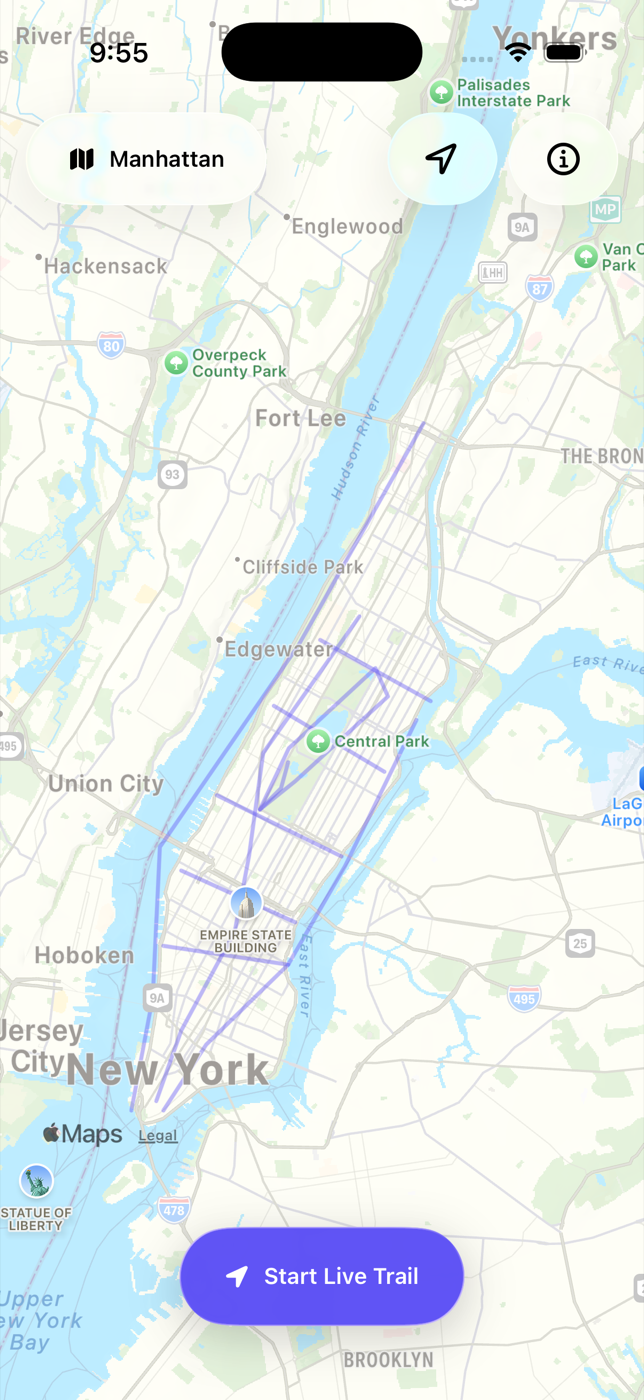
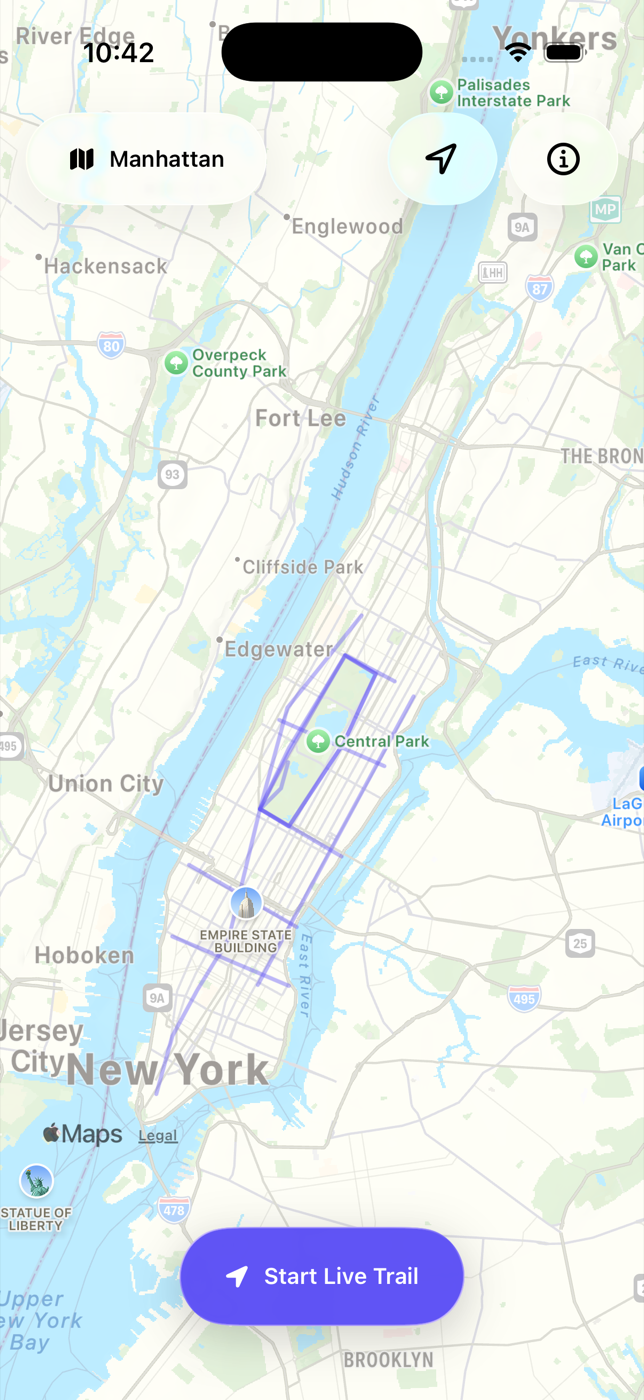
docs: improve public screenshots and install guide

diff --git a/WalkItAll/App/AppModel.swift b/WalkItAll/App/AppModel.swift
@@ -597,11 +597,13 @@ final class AppModel {
                 sourceName: "Apple Watch",
                 activityKind: .cycling,
                 routeParts: [[
-                    GeoCoordinate(latitude: 40.7040, longitude: -74.0180),
-                    GeoCoordinate(latitude: 40.7280, longitude: -74.0120),
-                    GeoCoordinate(latitude: 40.7600, longitude: -74.0100),
-                    GeoCoordinate(latitude: 40.8030, longitude: -73.9710),
-                    GeoCoordinate(latitude: 40.8500, longitude: -73.9360),
+                    GeoCoordinate(latitude: 40.7681, longitude: -73.9819),
+                    GeoCoordinate(latitude: 40.7798, longitude: -73.9740),
+                    GeoCoordinate(latitude: 40.8007, longitude: -73.9580),
+                    GeoCoordinate(latitude: 40.7968, longitude: -73.9494),
+                    GeoCoordinate(latitude: 40.7820, longitude: -73.9585),
+                    GeoCoordinate(latitude: 40.7644, longitude: -73.9738),
+                    GeoCoordinate(latitude: 40.7681, longitude: -73.9819),
                 ]]
             ),
             WorkoutRouteRecord(
@@ -611,11 +613,12 @@ final class AppModel {
                 sourceName: "Apple Watch",
                 activityKind: .running,
                 routeParts: [[
-                    GeoCoordinate(latitude: 40.7040, longitude: -74.0090),
-                    GeoCoordinate(latitude: 40.7180, longitude: -73.9970),
-                    GeoCoordinate(latitude: 40.7350, longitude: -73.9740),
-                    GeoCoordinate(latitude: 40.7560, longitude: -73.9580),
-                    GeoCoordinate(latitude: 40.7870, longitude: -73.9380),
+                    GeoCoordinate(latitude: 40.7307, longitude: -73.9825),
+                    GeoCoordinate(latitude: 40.7415, longitude: -73.9749),
+                    GeoCoordinate(latitude: 40.7539, longitude: -73.9661),
+                    GeoCoordinate(latitude: 40.7675, longitude: -73.9566),
+                    GeoCoordinate(latitude: 40.7804, longitude: -73.9474),
+                    GeoCoordinate(latitude: 40.7920, longitude: -73.9388),
                 ]]
             ),
             WorkoutRouteRecord(
@@ -624,12 +627,14 @@ final class AppModel {
                 end: start.addingTimeInterval(-255_600),
                 sourceName: "Apple Watch",
                 routeParts: [[
-                    GeoCoordinate(latitude: 40.7060, longitude: -74.0110),
-                    GeoCoordinate(latitude: 40.7210, longitude: -74.0040),
-                    GeoCoordinate(latitude: 40.7420, longitude: -73.9890),
-                    GeoCoordinate(latitude: 40.7580, longitude: -73.9850),
-                    GeoCoordinate(latitude: 40.7800, longitude: -73.9810),
-                    GeoCoordinate(latitude: 40.8090, longitude: -73.9540),
+                    GeoCoordinate(latitude: 40.7075, longitude: -74.0110),
+                    GeoCoordinate(latitude: 40.7198, longitude: -74.0065),
+                    GeoCoordinate(latitude: 40.7296, longitude: -73.9995),
+                    GeoCoordinate(latitude: 40.7405, longitude: -73.9907),
+                    GeoCoordinate(latitude: 40.7527, longitude: -73.9870),
+                    GeoCoordinate(latitude: 40.7681, longitude: -73.9819),
+                    GeoCoordinate(latitude: 40.7896, longitude: -73.9742),
+                    GeoCoordinate(latitude: 40.8092, longitude: -73.9534),
                 ]]
             ),
             WorkoutRouteRecord(
@@ -639,12 +644,13 @@ final class AppModel {
                 sourceName: "iPhone",
                 activityKind: .hiking,
                 routeParts: [[
-                    GeoCoordinate(latitude: 40.7680, longitude: -73.9819),
+                    GeoCoordinate(latitude: 40.7681, longitude: -73.9819),
                     GeoCoordinate(latitude: 40.7810, longitude: -73.9738),
-                    GeoCoordinate(latitude: 40.7980, longitude: -73.9495),
-                    GeoCoordinate(latitude: 40.7920, longitude: -73.9460),
-                    GeoCoordinate(latitude: 40.7740, longitude: -73.9720),
-                    GeoCoordinate(latitude: 40.7680, longitude: -73.9819),
+                    GeoCoordinate(latitude: 40.8007, longitude: -73.9580),
+                    GeoCoordinate(latitude: 40.7968, longitude: -73.9494),
+                    GeoCoordinate(latitude: 40.7820, longitude: -73.9585),
+                    GeoCoordinate(latitude: 40.7644, longitude: -73.9738),
+                    GeoCoordinate(latitude: 40.7681, longitude: -73.9819),
                 ]]
             ),
             WorkoutRouteRecord(
@@ -653,8 +659,8 @@ final class AppModel {
                 end: start.addingTimeInterval(-430_200),
                 sourceName: "Apple Watch",
                 routeParts: [[
-                    GeoCoordinate(latitude: 40.7390, longitude: -74.0090),
-                    GeoCoordinate(latitude: 40.7350, longitude: -73.9740),
+                    GeoCoordinate(latitude: 40.7410, longitude: -74.0065),
+                    GeoCoordinate(latitude: 40.7305, longitude: -73.9738),
                 ]]
             ),
             WorkoutRouteRecord(
@@ -663,8 +669,8 @@ final class AppModel {
                 end: start.addingTimeInterval(-516_600),
                 sourceName: "Apple Watch",
                 routeParts: [[
-                    GeoCoordinate(latitude: 40.7550, longitude: -74.0040),
-                    GeoCoordinate(latitude: 40.7440, longitude: -73.9720),
+                    GeoCoordinate(latitude: 40.7562, longitude: -74.0018),
+                    GeoCoordinate(latitude: 40.7430, longitude: -73.9716),
                 ]]
             ),
             WorkoutRouteRecord(
@@ -673,7 +679,7 @@ final class AppModel {
                 end: start.addingTimeInterval(-603_000),
                 sourceName: "Apple Watch",
                 routeParts: [[
-                    GeoCoordinate(latitude: 40.7710, longitude: -73.9940),
+                    GeoCoordinate(latitude: 40.7681, longitude: -73.9819),
                     GeoCoordinate(latitude: 40.7580, longitude: -73.9590),
                 ]]
             ),
@@ -683,8 +689,8 @@ final class AppModel {
                 end: start.addingTimeInterval(-689_400),
                 sourceName: "Apple Watch",
                 routeParts: [[
-                    GeoCoordinate(latitude: 40.7900, longitude: -73.9780),
-                    GeoCoordinate(latitude: 40.7760, longitude: -73.9470),
+                    GeoCoordinate(latitude: 40.7870, longitude: -73.9765),
+                    GeoCoordinate(latitude: 40.7772, longitude: -73.9470),
                 ]]
             ),
             WorkoutRouteRecord(
@@ -693,8 +699,8 @@ final class AppModel {
                 end: start.addingTimeInterval(-775_800),
                 sourceName: "Apple Watch",
                 routeParts: [[
-                    GeoCoordinate(latitude: 40.8040, longitude: -73.9650),
-                    GeoCoordinate(latitude: 40.7910, longitude: -73.9340),
+                    GeoCoordinate(latitude: 40.8008, longitude: -73.9580),
+                    GeoCoordinate(latitude: 40.7952, longitude: -73.9441),
                 ]]
             ),
         ]

diff --git a/README.md b/README.md
@@ -65,6 +65,37 @@ Recent workouts are safely rechecked because Apple Health may deliver or replace
 
 Walk It All is a personal MVP, not currently distributed through the App Store or TestFlight. The repository is public so the product, privacy model, and implementation can be reviewed and shared. Installing it currently requires building it with Xcode and signing it with your own Apple development team.
 
+## Install on your own iPhone with a coding agent
+
+Because Walk It All is unpublished, this GitHub repository is source code—not a one-tap installation link. Codex or Claude Code can automate most of a personal installation on a Mac, but Apple still requires the iPhone owner to sign in to Xcode with their own Apple Account, trust the Mac, enable Developer Mode, and approve permissions on the phone.
+
+With a free Xcode Personal Team, Apple currently allows up to 10 App IDs, 3 test devices per platform, and 3 apps per device. These registrations and the provisioning profile expire after 7 days, so the app must be rebuilt and reinstalled periodically. The three-device allowance belongs to each Apple Account: friends who sign their own clone with their own Personal Team do **not** use your three-device allowance. See Apple’s [Personal Team limits](https://developer.apple.com/help/account/basics/about-your-developer-account).
+
+<details>
+<summary><strong>Copy this prompt into Codex or Claude Code</strong></summary>
+
+```text
+Help me install Walk It All on my own iPhone for personal use.
+
+Repository: https://github.com/arminnajafi/walk-it-all
+
+Please:
+1. Clone the repository into a sensible local Projects folder and read its README before changing anything.
+2. Confirm that the current full Xcode and XcodeGen are installed. Install only XcodeGen if needed; do not install or download a different Xcode or iOS runtime without asking me.
+3. Explain the manual Apple steps when they become necessary: signing in to Xcode with my Apple Account, choosing my Personal Team, connecting and trusting my iPhone, and enabling Developer Mode.
+4. Do not use the repository owner’s signing team or bundle identifier. Ask me for a unique reverse-DNS bundle identifier, then update DEVELOPMENT_TEAM and PRODUCT_BUNDLE_IDENTIFIER only in my local clone. Keep the same values for later reinstalls so updates preserve the app’s local data.
+5. Regenerate the Xcode project, run ./Scripts/verify.sh, and resolve any build issue without weakening privacy or removing tests.
+6. Build, sign, install, and launch the app on my iPhone using supported Xcode device tooling and automatic signing. Do not erase or uninstall an existing Walk It All app unless I explicitly approve it.
+7. Guide me through read-only Apple Health access and optional When-In-Use location access. Never export, upload, print, or commit Health routes, coordinates, device identifiers, or signing credentials.
+8. Tell me clearly if a step must be completed by me on the Mac or iPhone. Do not claim success until the app launches on the phone.
+
+This app is not on the App Store or TestFlight. If I use a free Personal Team, remind me that its provisioning expires after 7 days and that I will need to rebuild and reinstall with the same team and bundle identifier.
+```
+
+</details>
+
+For genuinely easy sharing, the cleaner next step is the paid Apple Developer Program and TestFlight. Membership is currently [US$99 per year](https://developer.apple.com/programs/whats-included/); [TestFlight builds](https://developer.apple.com/help/app-store-connect/test-a-beta-version/testflight-overview) remain available for up to 90 days and external testing may require beta review. That is not necessary for personal use or source review.
+
 ## Build and verify
 
 Requirements:
